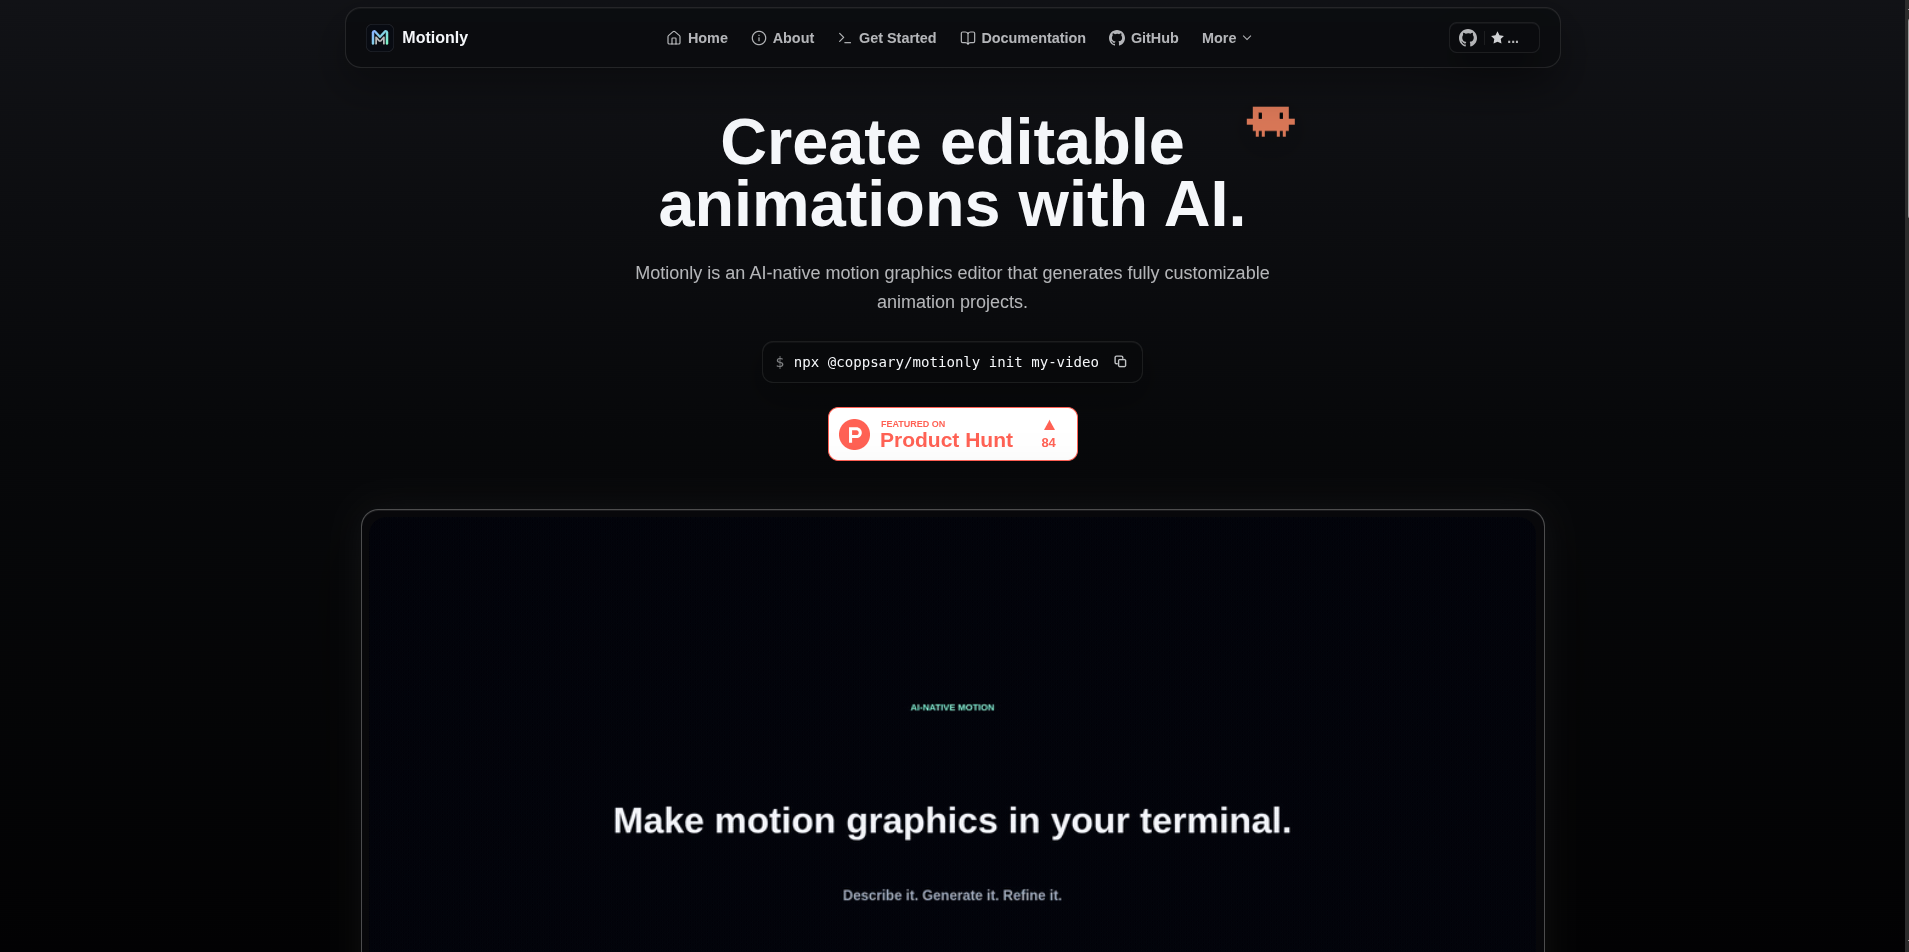
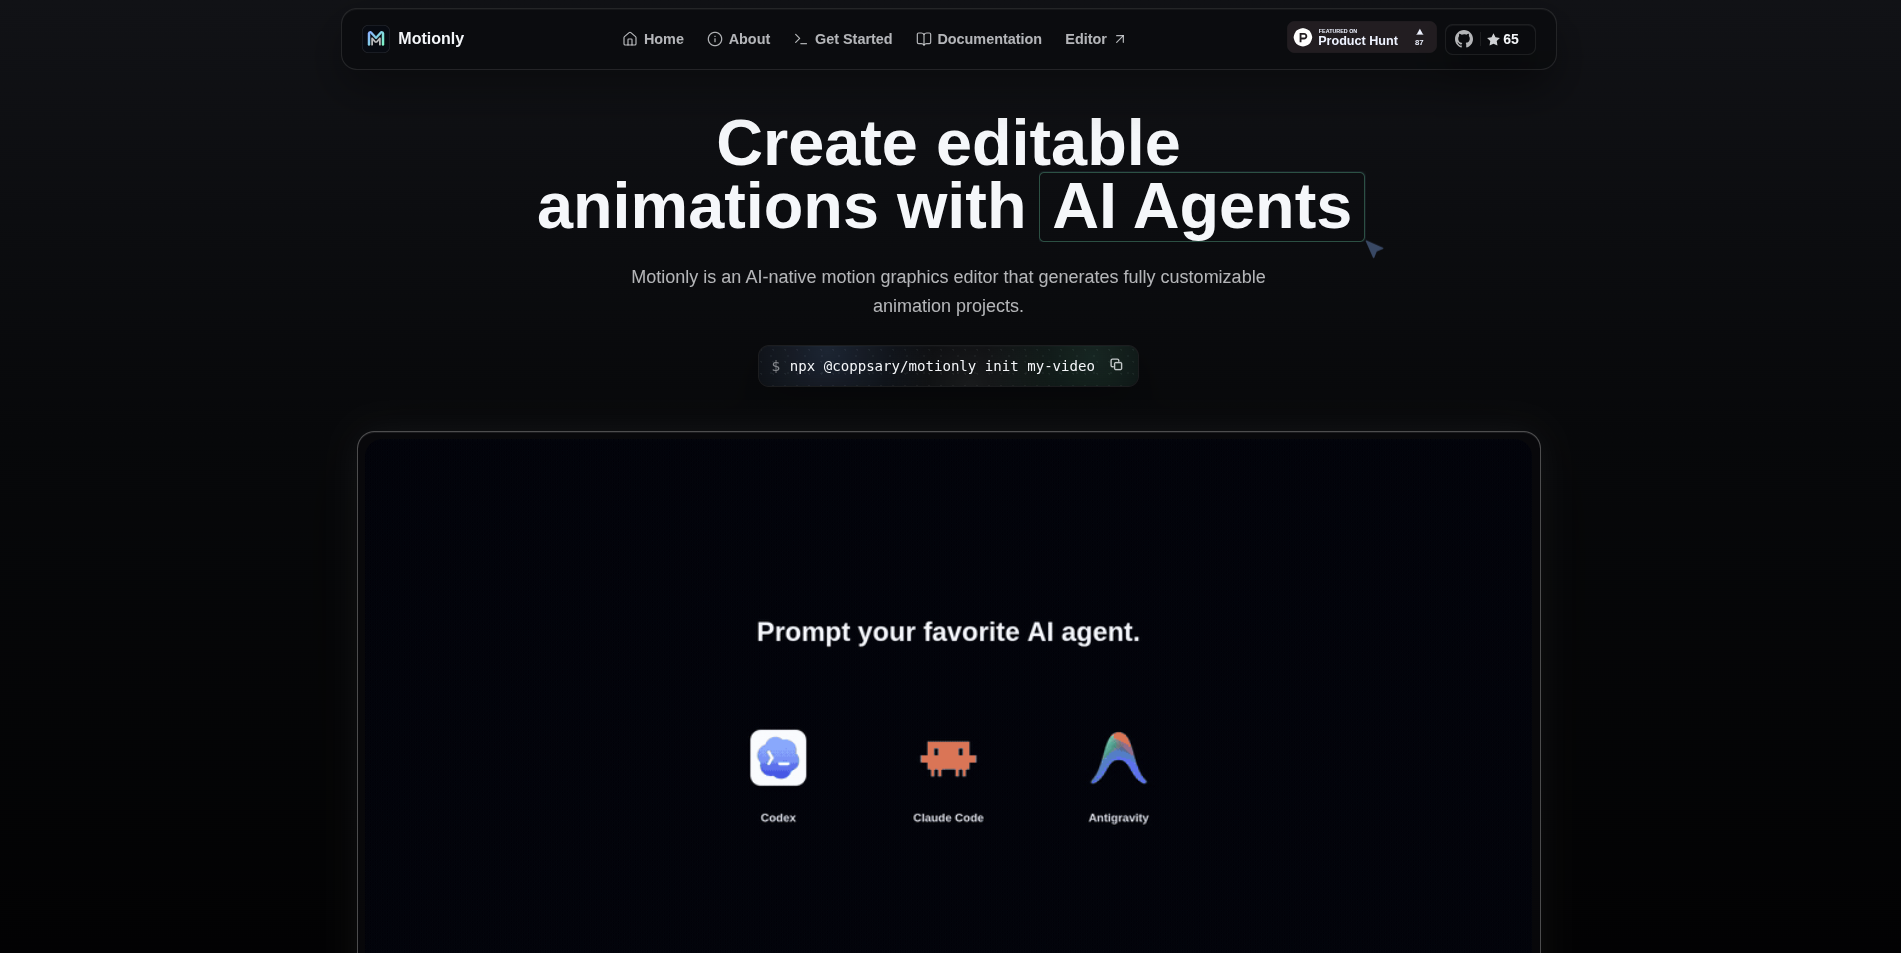
update social preview

diff --git a/src/index.html b/src/index.html
@@ -23,10 +23,10 @@
     property="og:description"
     content="Create editable AI motion graphics projects, refine them visually, and export finished animations to MP4."
   >
-  <meta property="og:url" content="https://motionly.site/">
-  <meta property="og:image" content="https://motionly.site/social-preview.png">
-  <meta property="og:image:width" content="1909">
-  <meta property="og:image:height" content="952">
+  <meta property="og:url" content="https://www.motionly.site/">
+  <meta property="og:image" content="https://www.motionly.site/social-preview.png">
+  <meta property="og:image:width" content="1901">
+  <meta property="og:image:height" content="953">
   <meta property="og:image:alt" content="Motionly AI-native motion graphics editor">
   <meta name="twitter:card" content="summary_large_image">
   <meta name="twitter:title" content="Motionly - AI-native motion graphics editor">
@@ -34,8 +34,8 @@
     name="twitter:description"
     content="Create editable AI motion graphics projects, refine them visually, and export finished animations to MP4."
   >
-  <meta name="twitter:image" content="https://motionly.site/social-preview.png">
-  <link rel="canonical" href="https://motionly.site/">
+  <meta name="twitter:image" content="https://www.motionly.site/social-preview.png">
+  <link rel="canonical" href="https://www.motionly.site/">
   <link rel="icon" type="image/svg+xml" href="logo.svg">
   <script type="application/ld+json">
     {
@@ -44,8 +44,8 @@
       "name": "Motionly",
       "applicationCategory": "MultimediaApplication",
       "operatingSystem": "macOS, Windows, Linux",
-      "url": "https://motionly.site/",
-      "image": "https://motionly.site/social-preview.png",
+      "url": "https://www.motionly.site/",
+      "image": "https://www.motionly.site/social-preview.png",
       "description": "Motionly is an AI-native motion graphics editor for editable animation projects, visual editing, readable .motion files, and local MP4 export.",
       "creator": {
         "@type": "Organization",

diff --git a/src/app/features/about/about-page.component.ts b/src/app/features/about/about-page.component.ts
@@ -35,7 +35,7 @@ export class AboutPageComponent {
     const pageTitle = 'About Motionly - AI motion graphics editor';
     const description =
       'Learn about Motionly, an AI-native motion graphics editor by COPPSARY for editable animation projects, prompt to MP4 workflows, visual editing, and readable .motion source files.';
-    const url = 'https://motionly.site/about';
+    const url = 'https://www.motionly.site/about';
 
     title.setTitle(pageTitle);
     meta.updateTag({

diff --git a/src/app/features/landing-page/landing-page.component.ts b/src/app/features/landing-page/landing-page.component.ts
@@ -44,7 +44,7 @@ export class LandingPageComponent {
     const pageTitle = 'Motionly - AI-native motion graphics editor';
     const description =
       'Motionly is an open source AI-native motion graphics editor for visual animation editing, code animation workflows, SVG animation, local MP4 export, and readable .motion files.';
-    const url = 'https://motionly.site/';
+    const url = 'https://www.motionly.site/';
 
     title.setTitle(pageTitle);
     meta.updateTag({

diff --git a/src/app/features/getting-started/getting-started-page.component.ts b/src/app/features/getting-started/getting-started-page.component.ts
@@ -41,7 +41,7 @@ export class GettingStartedPageComponent {
     const pageTitle = 'Install Motionly - Getting Started';
     const description =
       'Install Motionly, run the local AI motion graphics editor, organize assets, and export editable .motion animation projects to MP4.';
-    const url = 'https://motionly.site/getting-started';
+    const url = 'https://www.motionly.site/getting-started';
 
     title.setTitle(pageTitle);
     meta.updateTag({
